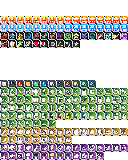
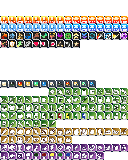
item menu

Changed region(s): [[0.0, 0.5312, 0.375, 0.625]]

diff --git a/js/plugins/D9D_OrcFantasy.js b/js/plugins/D9D_OrcFantasy.js
@@ -156,15 +156,9 @@
 	Window.prototype.move = function(x, y, width, height) {
 		this.x = x || 0;
 		this.y = y || 0;
-		const spriteW = $gameMap.tileWidth() / 2;
-		const spriteH = $gameMap.tileHeight() / 2;
-		this.x = Math.round(this.x / spriteW) * spriteW;
-		this.y = Math.round(this.y / spriteH) * spriteH;
 		if (this._width !== width || this._height !== height) {
 			this._width = width || 0;
 			this._height = height || 0;
-			this._width = Math.round(this._width / spriteW) * spriteW;
-			this._height = Math.round(this._height / spriteH) * spriteH;
 			this._refreshAllParts();
 		}
 	};
@@ -275,12 +269,20 @@
 		Graphics.boxHeight = Graphics._height;
 	};
 	
-	// Scene Base
+	// Scene Menu Base
 	Scene_MenuBase.prototype.createBackground = function() {
 		this._backgroundSprite = new Sprite();
 		this._backgroundSprite.bitmap = SceneManager.backgroundBitmap();
 		this.addChild(this._backgroundSprite);
 		this.setBackgroundOpacity(255);
+	};
+	
+	Scene_MenuBase.prototype.helpWindowRect = function() {
+		const ww = Graphics.boxWidth;
+		const wh = $gameSystem.windowPadding()*4 + $gameMap.tileHeight()*2;
+		const wx = 0;
+		const wy = Graphics.boxHeight - wh;
+		return new Rectangle(wx, wy, ww, wh);
 	};
 	
 	// Scene Menu
@@ -309,37 +311,42 @@
 	
 	Scene_Menu.prototype.commandWindowRect = function() {
 		const ww = $gameSystem.windowPadding()*4 + $gameMap.tileWidth()/2*8;
-		const wh = $gameSystem.windowPadding()*3 + $gameMap.tileHeight()*8;
+		const wh = $gameSystem.windowPadding()*4 + $gameMap.tileHeight()*8;
 		const wx = Graphics.boxWidth - ww;
-		const wy = this._goldWindow.y - $gameMap.tileHeight()*9;
+		const wy = this._goldWindow.y - wh;
 		return new Rectangle(wx, wy, ww, wh);
-	};
-	
-	Scene_Menu.prototype.createGoldWindow = function() {
-		const rect = this.goldWindowRect();
-		this._goldWindow = new Window_Gold(rect);
-		this.addWindow(this._goldWindow);
 	};
 	
 	Scene_Menu.prototype.goldWindowRect = function() {
 		const ww = $gameSystem.windowPadding()*4 + $gameMap.tileWidth()/2*8;
-		const wh = $gameSystem.windowPadding()*3 + $gameMap.tileHeight();
+		const wh = $gameSystem.windowPadding()*4 + $gameMap.tileHeight();
 		const wx = Graphics.boxWidth - ww;
-		const wy = $gameMap.tileHeight()*11;
+		const wy = Graphics.boxHeight - wh;
 		return new Rectangle(wx, wy, ww, wh);
-	};
-	
-	Scene_Menu.prototype.createStatusWindow = function() {
-		const rect = this.statusWindowRect();
-		this._statusWindow = new Window_MenuStatus(rect);
-		this.addWindow(this._statusWindow);
 	};
 	
 	Scene_Menu.prototype.statusWindowRect = function() {
 		const ww = $gameSystem.windowPadding()*4 + $gameMap.tileWidth()/2*20;
-		const wh = $gameSystem.windowPadding()*3 + $gameMap.tileHeight()*8;
+		const wh = $gameSystem.windowPadding()*4 + $gameMap.tileHeight()*8;
 		const wx = Graphics.boxWidth - ww - this._commandWindow.width;
-		const wy = $gameMap.tileHeight()*4;
+		const wy = Graphics.boxHeight - wh;
+		return new Rectangle(wx, wy, ww, wh);
+	};
+	
+	// Scene Item
+	Scene_Item.prototype.categoryWindowRect = function() {
+		const ww = $gameSystem.windowPadding()*4 + $gameMap.tileWidth()/2*8;
+		const wh = $gameSystem.windowPadding()*4 + $gameMap.tileHeight()*4;
+		const wx = Graphics.boxWidth - ww - ($gameSystem.windowPadding()*4 + $gameMap.tileWidth()/2*22);
+		const wy = this._helpWindow.y - wh;
+		return new Rectangle(wx, wy, ww, wh);
+	};
+
+	Scene_Item.prototype.itemWindowRect = function() {
+		const ww = $gameSystem.windowPadding()*4 + $gameMap.tileWidth()/2*22;
+		const wh = $gameSystem.windowPadding()*4 + $gameMap.tileHeight()*8;
+		const wx = Graphics.boxWidth - ww;
+		const wy = this._helpWindow.y - wh;
 		return new Rectangle(wx, wy, ww, wh);
 	};
 	
@@ -418,6 +425,17 @@
 		return this.contents.measureTextWidthFromImage(text);
 	};
 	
+	Window_Base.prototype.drawItemName = function(item, x, y, width) {
+		if (item) {
+			const iconY = y;
+			const textMargin = ImageManager.iconWidth;
+			const itemWidth = Math.max(0, width - textMargin);
+			this.resetTextColor();
+			this.drawIcon(item.iconIndex, x, iconY);
+			this.drawText(item.name, x + textMargin, y, itemWidth);
+		}
+	};
+	
 	Window_Base.prototype.drawCurrencyValue = function(value, unit, x, y, width) {
 		const unitWidth = this.textWidthFromImage(unit);
 		this.resetTextColor();
@@ -442,6 +460,9 @@
 	const _Window_Selectable_itemRect = Window_Selectable.prototype.itemRect;
 	Window_Selectable.prototype.itemRect = function(index) {
 		const rect = _Window_Selectable_itemRect.call(this, index);
+		rect.x -= this.colSpacing() / 2;
+		const spriteW = $gameMap.tileWidth()/2;
+		rect.x = Math.floor(rect.x / spriteW) * spriteW;
 		rect.y += $gameSystem.windowPadding()*2;
 		return rect;
 	};
@@ -567,5 +588,33 @@
 		const x = rect.x;
 		const y = rect.y;
 		this.drawActorSimpleStatus(actor, x + $gameSystem.windowPadding(), y + $gameSystem.windowPadding());
+	};
+	
+	// Window Item List
+	Window_ItemList.prototype.colSpacing = function() {
+		return 4;
+	};
+	
+	Window_ItemList.prototype.drawItem = function(index) {
+		const item = this.itemAt(index);
+		if (item) {
+			const numberWidth = this.numberWidth();
+			const rect = this.itemLineRect(index);
+			rect.y += $gameSystem.windowPadding();
+			this.changePaintOpacity(this.isEnabled(item));
+			this.drawItemName(item, rect.x, rect.y, rect.width - numberWidth);
+			this.drawItemNumber(item, rect.x, rect.y, rect.width);
+			this.changePaintOpacity(1);
+		}
+	};
+	
+	Window_ItemList.prototype.numberWidth = function() {
+		return this.textWidth("00");
+	};
+	
+	Window_ItemList.prototype.drawItemNumber = function(item, x, y, width) {
+		if (this.needsNumber()) {
+			this.drawText($gameParty.numItems(item)+"", x, y, width, "right");
+		}
 	};
 })();

diff --git a/js/rmmz_windows.js b/js/rmmz_windows.js
@@ -2098,19 +2098,15 @@ function Window_ItemCategory() {
     this.initialize(...arguments);
 }
 
-Window_ItemCategory.prototype = Object.create(Window_HorzCommand.prototype);
+Window_ItemCategory.prototype = Object.create(Window_Command.prototype);
 Window_ItemCategory.prototype.constructor = Window_ItemCategory;
 
 Window_ItemCategory.prototype.initialize = function(rect) {
-    Window_HorzCommand.prototype.initialize.call(this, rect);
-};
-
-Window_ItemCategory.prototype.maxCols = function() {
-    return 4;
+    Window_Command.prototype.initialize.call(this, rect);
 };
 
 Window_ItemCategory.prototype.update = function() {
-    Window_HorzCommand.prototype.update.call(this);
+    Window_Command.prototype.update.call(this);
     if (this._itemWindow) {
         this._itemWindow.setCategory(this.currentSymbol());
     }
